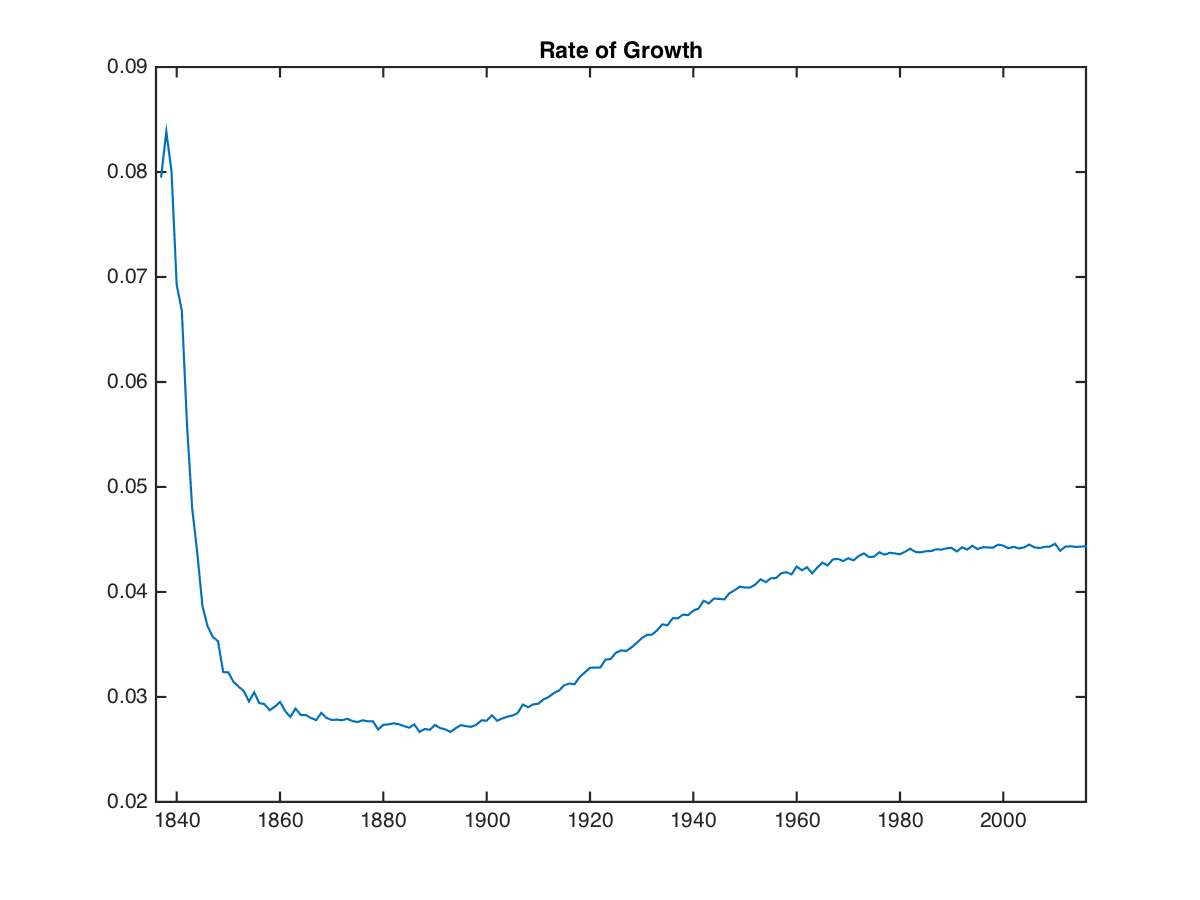
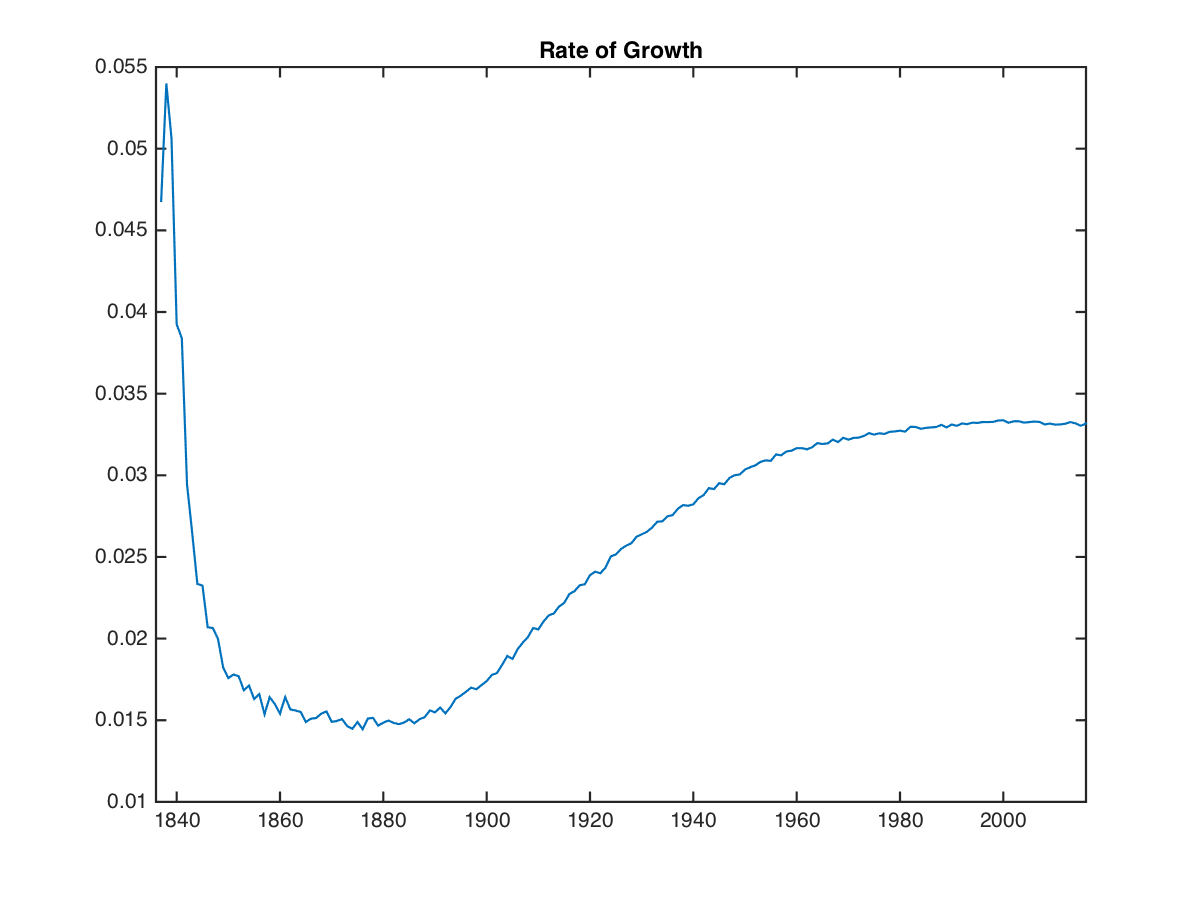
coded distribution shift into simulation

diff --git a/simulations/simulate_model/simul4.m b/simulations/simulate_model/simul4.m
@@ -2,19 +2,23 @@ clear
 close all
 clc
 
+% turn on just in time compilation (makes for loops faster)
+feature accel on 
+
 cd('/Users/alexandresollaci/Documents/UChicago/RA/Combinatorial growth/combinatorial_growth/simulations/simulate_model/')
 rng(10)
 etaH = 0.15; % NT step size
-etaM = 0.06; % NC step size
+etaM = 0.075; % NC step size
 etaL = 0; % Refinement step size
-ttau = 1000; % shape parameter for ideas distribution
-llambda = 1; % alpha (cost) has weibull distribution with scale parameter lambda ...
-kkappa = 2; % and shape parameter kappa
-xxi = 200;   % 1/xi is the fraction of feasible combinations
+ttau = 500; % shape parameter for ideas distribution
+phi = 1.05;
+llambda = 1.5; % alpha (cost) has weibull distribution with scale parameter lambda ...
+kkappa = 2;  % and shape parameter kappa
+xxi = 175;   % 1/xi is the fraction of feasible combinations
 
-zeta = 0.012; % probability technology line shuts down
+zeta = 0.01; % probability technology line shuts down
 
-ggamma = .6; % match to labor share of GDP
+ggamma = 0.6; % match to labor share of GDP
 epsilon = 2; % from Acemoglu, Akcigit, Bloom and Kerr (2013) - pg 21
 
 rr = 0.05; % interest rate
@@ -68,7 +72,7 @@ for t = 1:Tmax  % number of years of iteration. Here 200 years
     remove_line = [];
 
     % add new block of memory to Mmat if needed
-    if( Mt + (blocksize/20) > length(Mmat) )         % less than 10% of blocksize free slots
+    if( Mt + (blocksize/10) > length(Mmat) )         % less than 10% of blocksize free slots
         Mmat(length(Mmat)+1:length(Mmat)+blocksize, :) = zeros(blocksize,5);       % add new BLOCK_SIZE slots
     end
     
@@ -92,7 +96,10 @@ for t = 1:Tmax  % number of years of iteration. Here 200 years
     for j=1:Mt
 
         % Draw new ideas and new costs
-        [mstar,aalpha] = modeldraws(j, ttau, llambda, kkappa); % not using seed
+        %[mstar,aalpha] = modeldraws(j, ttau, llambda, kkappa); % not using seed
+        y = rand(2,1); 
+        mstar = ttau*log( (1 + y(1)*exp(phi*j/ttau)) / (1-y(1)) );                     % Inverse of G
+        aalpha = llambda*(- log(1 - y(2)) )^(1/kkappa) ;                               % Inverse of weibull CDF
         aalpha1 = aalpha; % new tech cost
         aalpha2 = aalpha; % new comb cost
         % cost of reuse normalized to zero
@@ -113,7 +120,7 @@ for t = 1:Tmax  % number of years of iteration. Here 200 years
         end
 
         if rand(1) < zeta
-            remove_line = [remove_line, j]; % variable to store identtity of dead lines
+            remove_line = [remove_line, j]; % variable to store identity of dead lines
         else
             if oldstate(j)<=2  % used to be new technology or new combination
 

diff --git a/simulations/welfare_counterfactuals/optimal_subsidy_zeta.m b/simulations/welfare_counterfactuals/optimal_subsidy_zeta.m
@@ -5,13 +5,14 @@ clc
 %cd('/Users/alexandresollaci/Documents/UChicago/RA/Combinatorial growth/combinatorial_growth/simulations/welfare_counterfactuals/')
 
 etaH = 0.15; % NT step size
-etaM = 0.06; % NC step size
+etaM = 0.075; % NC step size
 etaL = 0; % Refinement step size
-ttau = 1000; % shape parameter for ideas distribution
-llambda = 2; % alpha (cost) has weibull distribution with scale parameter lambda ...
-kkappa = 2; % and shape parameter kappa
-xxi = 200;   % 1/xi is the fraction of feasible combinations
-zeta = 0.012; % probability technology line shuts down
+ttau = 500; % shape parameter for ideas distribution
+phi = 1.05;
+llambda = 1.5; % alpha (cost) has weibull distribution with scale parameter lambda ...
+kkappa = 2;  % and shape parameter kappa
+xxi = 175;   % 1/xi is the fraction of feasible combinations
+zeta = 0.01; % probability technology line shuts down
 ggamma = .6; % match to labor share of GDP
 epsilon = 2; % from Acemoglu, Akcigit, Bloom and Kerr (2013) - pg 21
 rr = 0.05; % interest rate
@@ -28,7 +29,7 @@ g2 = 0.02; % final growth rate of patents
 Tmax = 230; % total number of periods
 T_subs = 180; % start subsidy period in 2016
 seed = 10;
-params = v2struct(etaH, etaM, etaL, ttau, llambda, kkappa, xxi, zeta, ggamma, epsilon, rr, nu, nrofinv, g1, g2);
+params = v2struct(etaH, etaM, etaL, ttau, phi, llambda, kkappa, xxi, zeta, ggamma, epsilon, rr, nu, nrofinv, g1, g2);
 
 %% Run simulation with no subsidy
 subsidy_plain = [0,0];
@@ -93,7 +94,7 @@ plot(subsidy_vals, WChangeNT)
 title('Welfare gains (%) associated with subsidy value (CRRA)')
 xlabel('Subsidy value')
 ylabel('Welfare gain')
-saveas(gcf, 'tex_files/figures/welfare_pp_cost01.png')
+saveas(gcf, 'tex_files/figures/welfare_pp_phi.png')
 
 welfare_log_gains_pp = figure(2);
 plot(subsidy_vals, WlogChangeNT)
@@ -101,7 +102,7 @@ plot(subsidy_vals, WlogChangeNT)
 title('Welfare gains (%) associated with subsidy value (Log)')
 xlabel('Subsidy value')
 ylabel('Welfare gain')
-saveas(gcf, 'tex_files/figures/welfare_log_pp_cost01.png')
+saveas(gcf, 'tex_files/figures/welfare_log_pp_phi.png')
 
 
 

diff --git a/simulations/welfare_counterfactuals/counterfactuals_zeta.m b/simulations/welfare_counterfactuals/counterfactuals_zeta.m
@@ -2,17 +2,18 @@ clear
 close all
 clc
 
-cd('/Users/alexandresollaci/Documents/UChicago/RA/Combinatorial growth/combinatorial_growth/simulations/welfare_counterfactuals/')
+%cd('/Users/alexandresollaci/Documents/UChicago/RA/Combinatorial growth/combinatorial_growth/simulations/welfare_counterfactuals/')
 
 % parameters
 etaH = 0.15; % NT step size
-etaM = 0.06; % NC step size
+etaM = 0.075; % NC step size
 etaL = 0; % Refinement step size
-ttau = 1000; % shape parameter for ideas distribution
-llambda = 1; % alpha (cost) has weibull distribution with scale parameter lambda ...
-kkappa = 2; % and shape parameter kappa
-xxi = 200;   % 1/xi is the fraction of feasible combinations
-zeta = 0.012; % probability technology line shuts down
+ttau = 500; % shape parameter for ideas distribution
+phi = 1.05;
+llambda = 1.5; % alpha (cost) has weibull distribution with scale parameter lambda ...
+kkappa = 2;  % and shape parameter kappa
+xxi = 175;   % 1/xi is the fraction of feasible combinations
+zeta = 0.01; % probability technology line shuts down
 ggamma = .6; % match to labor share of GDP
 epsilon = 2; % from Acemoglu, Akcigit, Bloom and Kerr (2013) - pg 21
 rr = 0.05; % interest rate
@@ -29,7 +30,7 @@ g2 = 0.02; % final growth rate of patents
 Tmax = 280; % 1836 - 2016
 T_subs = 180; % start subsidy period in 2016
 seed = 10;
-params = v2struct(etaH, etaM, etaL, ttau, llambda, kkappa, xxi, zeta, ggamma, epsilon, rr, nu, nrofinv, g1, g2);
+params = v2struct(etaH, etaM, etaL, ttau, phi, llambda, kkappa, xxi, zeta, ggamma, epsilon, rr, nu, nrofinv, g1, g2);
 
 % Run simulation with no subsidy
 subsidy_plain = [0,0];

diff --git a/simulations/welfare_counterfactuals/simulate_path_zeta.m b/simulations/welfare_counterfactuals/simulate_path_zeta.m
@@ -5,7 +5,8 @@ function return_vars = simulate_path_zeta(Tmax, T_subs, params, subsidy_vec, see
     etaH = params.etaH; 
     etaM = params.etaM; 
     etaL = params.etaL; 
-    ttau = params.ttau; 
+    ttau = params.ttau;
+    phi = params.phi; 
     llambda = params.llambda; 
     kkappa = params.kkappa; 
     xxi = params.xxi;   
@@ -25,7 +26,7 @@ function return_vars = simulate_path_zeta(Tmax, T_subs, params, subsidy_vec, see
     M0 = 100; % initial number of technologies
 
     % Preallocate space for Mmat:
-    blocksize = 50*M0;
+    blocksize = 500*M0;
 
     % [ID, n (pool size), z (number of times reused), birth year, number of periods that a tech remains hot]
     Mmat = zeros(blocksize,5);
@@ -94,7 +95,7 @@ function return_vars = simulate_path_zeta(Tmax, T_subs, params, subsidy_vec, see
             % Draw new ideas and new costs
             % [mstar,aalpha] = modeldraws(j, ttau, llambda, kkappa); % not using seed
             y = rand(2,1); 
-            mstar = ttau*log( (1 + y(1)*exp(1.01*j/ttau)) / (1-y(1)) );                     % Inverse of G
+            mstar = ttau*log( (1 + y(1)*exp(phi*j/ttau)) / (1-y(1)) );                     % Inverse of G
             aalpha = llambda*(- log(1 - y(2)) )^(1/kkappa) ;                           % Inverse of weibull CDF
             aalpha1 = aalpha*(1 - subsidy(1)); % new tech cost
             aalpha2 = aalpha*(1 - subsidy(2)); % new comb cost

diff --git a/simulations/simulate_model/tex_files/moments_table.tex b/simulations/simulate_model/tex_files/moments_table.tex
@@ -1,17 +1,17 @@
 \begin{tabular}{|l|l|l|}
 \hline
 &\textbf{Data}&\textbf{Model}\\\hline
-\textbf{new tech 1850}&0.4&0.096553\\\hline
-\textbf{new comb 1850}&0.25&0.4514\\\hline
-\textbf{reuse 1850}&0.35&0.45205\\\hline
-\textbf{new tech 1900}&0.03&0.023158\\\hline
-\textbf{new comb 1900}&0.45&0.51441\\\hline
-\textbf{reuse 1900}&0.52&0.46244\\\hline
-\textbf{new tech 1950}&0.02&0.015199\\\hline
-\textbf{new comb 1950}&0.75&0.79078\\\hline
-\textbf{reuse 1950}&0.33&0.19403\\\hline
-\textbf{new tech 2000}&0.01&0.014495\\\hline
-\textbf{new comb 2000}&0.8&0.86741\\\hline
-\textbf{reuse 2000}&0.19&0.11809\\\hline
-\textbf{reuse peak}&0.55&0.48432\\\hline
+\textbf{new tech 1850}&0.4&0.095132\\\hline
+\textbf{new comb 1850}&0.25&0.27981\\\hline
+\textbf{reuse 1850}&0.35&0.62506\\\hline
+\textbf{new tech 1900}&0.03&0.032952\\\hline
+\textbf{new comb 1900}&0.45&0.40219\\\hline
+\textbf{reuse 1900}&0.52&0.56486\\\hline
+\textbf{new tech 1950}&0.02&0.02515\\\hline
+\textbf{new comb 1950}&0.75&0.7685\\\hline
+\textbf{reuse 1950}&0.33&0.20635\\\hline
+\textbf{new tech 2000}&0.01&0.026435\\\hline
+\textbf{new comb 2000}&0.8&0.84388\\\hline
+\textbf{reuse 2000}&0.19&0.12969\\\hline
+\textbf{reuse peak}&0.55&0.6573\\\hline
 \end{tabular}

diff --git a/simulations/simulate_model/compute_moments.m b/simulations/simulate_model/compute_moments.m
@@ -58,8 +58,8 @@ function [M, F] = compute_moments(summat)
 	    % Peak of reuse fraction
 	    [M13 , M14] = max(summat(:,4)); 
 
-	    F = (M1/0.4 - 1)^2  + (M2/0.25 - 1)^2 + (M4/0.03 - 1)^2 + (M5/0.45 - 1)^2 + (M7/0.02 - 1)^2 + (M8/0.75 - 1)^2 + ...
-	    	(M10/0.01 - 1)^2 + (M11/0.8 - 1)^2 + (M13/0.55 - 1)^2 + (M14/34 - 1)^2 ;
+	    F = (M1-0.4)^2  + (M2-0.25)^2 + (M4-0.03)^2 + (M5-0.45)^2 + (M7-0.02)^2 + (M8-0.75)^2 + ...
+	    	(M10-0.01)^2 + (M11-0.8)^2 + (M13-0.55)^2; % + (M14/34 - 1)^2 ;
 	    % reuse fractions are not independent from other fraction, so not included
 	    M = [M1, M2, M3, M4, M5, M6, M7, M8, M9, M10, M11, M12, M13, M14];
 	end
